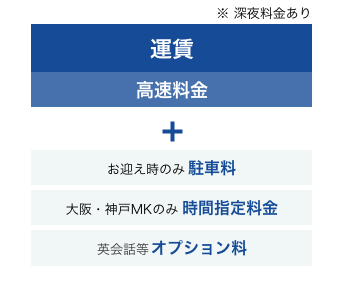
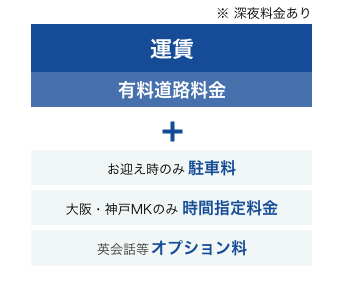
update

Changed region(s): [[0.3499, 0.2847, 0.6706, 0.3701]]

diff --git a/index.html b/index.html
@@ -84,22 +84,109 @@
           <span class="text-primary en">Information</span>
           <span>空港定額タクシーのご紹介</span>
         </h2>
-        <div class="information-slide">
-          <a href="./assets/images_min/slide_01.png" data-lightbox="info-slide">
-            <img class="img-fluid" src="./assets/images_min/slide_01.png" alt="空港定額タクシーのご紹介1">
-          </a>
-          <a href="./assets/images_min/slide_02.png" data-lightbox="info-slide">
-            <img class="img-fluid" src="./assets/images_min/slide_02.png" alt="空港定額タクシーのご紹介2">
-          </a>
-          <a href="./assets/images_min/slide_03.png" data-lightbox="info-slide">
-            <img class="img-fluid" src="./assets/images_min/slide_03.png" alt="空港定額タクシーのご紹介3">
-          </a>
-          <a href="./assets/images_min/slide_04.png" data-lightbox="info-slide">
-            <img class="img-fluid" src="./assets/images_min/slide_04.png" alt="空港定額タクシーのご紹介4">
-          </a>
-          <a href="./assets/images_min/slide_05.png" data-lightbox="info-slide">
-            <img class="img-fluid" src="./assets/images_min/slide_05.png" alt="空港定額タクシーのご紹介5">
-          </a>
+      </div>
+      <div class="bg-light py-4">
+        <div class="container">
+          <div class="information-slide">
+            <a href="./assets/images_min/slide_01.png" data-lightbox="info-slide">
+              <img class="img-fluid" src="./assets/images_min/slide_01.png" alt="空港定額タクシーのご紹介1">
+            </a>
+            <a href="./assets/images_min/slide_02.png" data-lightbox="info-slide">
+              <img class="img-fluid" src="./assets/images_min/slide_02.png" alt="空港定額タクシーのご紹介2">
+            </a>
+            <a href="./assets/images_min/slide_03.png" data-lightbox="info-slide">
+              <img class="img-fluid" src="./assets/images_min/slide_03.png" alt="空港定額タクシーのご紹介3">
+            </a>
+            <a href="./assets/images_min/slide_04.png" data-lightbox="info-slide">
+              <img class="img-fluid" src="./assets/images_min/slide_04.png" alt="空港定額タクシーのご紹介4">
+            </a>
+            <a href="./assets/images_min/slide_05.png" data-lightbox="info-slide">
+              <img class="img-fluid" src="./assets/images_min/slide_05.png" alt="空港定額タクシーのご紹介5">
+            </a>
+          </div>
+        </div>
+      </div>
+    </section>
+    <section id="about" class="sec">
+      <div class="container">
+        <h2 class="ttl2">
+          <span class="text-primary en">About</span>
+          <span>ご予約について</span>
+        </h2>
+        <div class="d-flex about-menu">
+          <a class="bg-primary text-white text-center" href="#">ご予約手順</a>
+          <a class="bg-dark text-white text-center" href="#">料金について</a>
+          <a class="bg-dark text-white text-center" href="#">車両について</a>
+          <a class="bg-dark text-white text-center" href="#">荷物について</a>
+          <a class="bg-dark text-white text-center" href="#">キャンセルについて</a>
+          <a class="bg-dark text-white text-center" href="#">注意事項</a>
+        </div>
+        <div id="flow" class="about-inner bg-light">
+          <div class="ttl border-bottom">
+            <h3 class="ttl3 m-0">
+              <span>ご予約手順</span>
+            </h3>
+          </div>
+          <div class="content">
+            <div class="row flow-list">
+              <div class="col-md">
+                <div class="card border-0">
+                  <div class="card-body">
+                    <h4 class="card-title text-primary">1.ご利用日、ご送迎地入力</h4>
+                    <p class="card-text">ご利用日とご送迎地を地図等を活用しながら入力してください。</p>
+                  </div>
+                </div>
+              </div>
+              <div class="col-md">
+                <div class="card border-0">
+                  <div class="card-body">
+                    <h4 class="card-title text-primary">2.車両選択、人数荷物</h4>
+                    <p class="card-text">ご利用人数とスーツケースの荷物に応じた車両をご選択ください。</p>
+                  </div>
+                </div>
+              </div>
+              <div class="col-md">
+                <div class="card border-0">
+                  <div class="card-body">
+                    <h4 class="card-title text-primary">3.お客様情報の入力</h4>
+                    <p class="card-text">ご利用される方のご利用情報をお願いします。</p>
+                  </div>
+                </div>
+              </div>
+              <div class="col-md">
+                <div class="card border-0">
+                  <div class="card-body">
+                    <h4 class="card-title text-primary">4.ご予約確認</h4>
+                    <p class="card-text">初めてご利用される方は、メールの確認があり、ご利用頂いているお客様は、直接ご予約の確認ができます。</p>
+                  </div>
+                </div>
+              </div>
+            </div>
+          </div>
+        </div>
+        <div id="price" class="about-inner bg-light">
+          <div class="ttl border-bottom">
+            <h3 class="ttl3 m-0">
+              <span>ご利用料金について</span>
+            </h3>
+          </div>
+          <div class="content">
+            <div class="prices d-flex justify-content-between align-items-start">
+              <div class="img">
+                <img class="img-fluid" src="./assets/images_min/price_img.png" alt="ご利用料金について">
+              </div>
+              <div class="txt">
+                <p>各主要空港 ⇔ ご自宅・ホテル・駅・旅先などご指定場所まで、お得な定額運賃で直行します!!</p>
+                <p class="mb-0 small">※「送迎先1ヵ所⇔空港」の直行便となります。立ち寄りがある場合は定額適用外となります。
+                  <br>※ 高速道路などの有料道路通行料がかかります。
+                  <br>※ スタンダード、ビジネスなど車種毎に運賃が変わります。
+                  <br>※ 空港お迎えご利用時は駐車代がかかります。
+                  <br>※ 深夜早朝時間帯(22:00~翌5:00)は割増運賃(2割増)となります。
+                  <br>※ 大阪MK・神戸MKは、時間指定予約料金として500円がかかります。
+                  <br>※名古屋MKは、時間指定予約料金として200円がかかります。</p>
+              </div>
+            </div>
+          </div>
         </div>
       </div>
     </section>

diff --git a/assets/js/bundle.js b/assets/js/bundle.js
@@ -94,7 +94,7 @@
 /***/ (function(module, __webpack_exports__, __webpack_require__) {
 
 "use strict";
-eval("__webpack_require__.r(__webpack_exports__);\n/* WEBPACK VAR INJECTION */(function($) {/* harmony import */ var _sass_app_scss__WEBPACK_IMPORTED_MODULE_0__ = __webpack_require__(/*! ../sass/app.scss */ \"./assets/sass/app.scss\");\n/* harmony import */ var _sass_app_scss__WEBPACK_IMPORTED_MODULE_0___default = /*#__PURE__*/__webpack_require__.n(_sass_app_scss__WEBPACK_IMPORTED_MODULE_0__);\n/* harmony import */ var bootstrap__WEBPACK_IMPORTED_MODULE_1__ = __webpack_require__(/*! bootstrap */ \"./node_modules/bootstrap/dist/js/bootstrap.js\");\n/* harmony import */ var bootstrap__WEBPACK_IMPORTED_MODULE_1___default = /*#__PURE__*/__webpack_require__.n(bootstrap__WEBPACK_IMPORTED_MODULE_1__);\n/* harmony import */ var slick_carousel__WEBPACK_IMPORTED_MODULE_2__ = __webpack_require__(/*! slick-carousel */ \"./node_modules/slick-carousel/slick/slick.js\");\n/* harmony import */ var slick_carousel__WEBPACK_IMPORTED_MODULE_2___default = /*#__PURE__*/__webpack_require__.n(slick_carousel__WEBPACK_IMPORTED_MODULE_2__);\n/* harmony import */ var lightbox2__WEBPACK_IMPORTED_MODULE_3__ = __webpack_require__(/*! lightbox2 */ \"./node_modules/lightbox2/dist/js/lightbox.js\");\n/* harmony import */ var lightbox2__WEBPACK_IMPORTED_MODULE_3___default = /*#__PURE__*/__webpack_require__.n(lightbox2__WEBPACK_IMPORTED_MODULE_3__);\n// sass\n // js\n\n\n\n\n$(function ($) {\n  $('.information-slide').slick({\n    dots: true,\n    infinite: true,\n    slidesToShow: 3,\n    slidesToScroll: 1,\n    centerMode: true,\n    centerPadding: '40px'\n  });\n});\n/* WEBPACK VAR INJECTION */}.call(this, __webpack_require__(/*! jquery */ \"./node_modules/jquery/dist/jquery.js\")))\n\n//# sourceURL=webpack:///./assets/js/index.js?");
+eval("__webpack_require__.r(__webpack_exports__);\n/* WEBPACK VAR INJECTION */(function($) {/* harmony import */ var _sass_app_scss__WEBPACK_IMPORTED_MODULE_0__ = __webpack_require__(/*! ../sass/app.scss */ \"./assets/sass/app.scss\");\n/* harmony import */ var _sass_app_scss__WEBPACK_IMPORTED_MODULE_0___default = /*#__PURE__*/__webpack_require__.n(_sass_app_scss__WEBPACK_IMPORTED_MODULE_0__);\n/* harmony import */ var bootstrap__WEBPACK_IMPORTED_MODULE_1__ = __webpack_require__(/*! bootstrap */ \"./node_modules/bootstrap/dist/js/bootstrap.js\");\n/* harmony import */ var bootstrap__WEBPACK_IMPORTED_MODULE_1___default = /*#__PURE__*/__webpack_require__.n(bootstrap__WEBPACK_IMPORTED_MODULE_1__);\n/* harmony import */ var slick_carousel__WEBPACK_IMPORTED_MODULE_2__ = __webpack_require__(/*! slick-carousel */ \"./node_modules/slick-carousel/slick/slick.js\");\n/* harmony import */ var slick_carousel__WEBPACK_IMPORTED_MODULE_2___default = /*#__PURE__*/__webpack_require__.n(slick_carousel__WEBPACK_IMPORTED_MODULE_2__);\n/* harmony import */ var lightbox2__WEBPACK_IMPORTED_MODULE_3__ = __webpack_require__(/*! lightbox2 */ \"./node_modules/lightbox2/dist/js/lightbox.js\");\n/* harmony import */ var lightbox2__WEBPACK_IMPORTED_MODULE_3___default = /*#__PURE__*/__webpack_require__.n(lightbox2__WEBPACK_IMPORTED_MODULE_3__);\n// sass\n // js\n\n\n\n\n$(function ($) {\n  $('.information-slide').slick({\n    dots: true,\n    infinite: true,\n    slidesToShow: 3,\n    slidesToScroll: 1,\n    prevArrow: '<span class=\"prev-arrow\"></span>',\n    nextArrow: '<span class=\"next-arrow\"></span>'\n  });\n});\n/* WEBPACK VAR INJECTION */}.call(this, __webpack_require__(/*! jquery */ \"./node_modules/jquery/dist/jquery.js\")))\n\n//# sourceURL=webpack:///./assets/js/index.js?");
 
 /***/ }),
 

diff --git a/assets/css/style.css b/assets/css/style.css
@@ -7364,6 +7364,22 @@ body {
   .ttl2 span:not(.en) {
     font-size: 0.875rem; }
 
+.ttl3 {
+  position: relative;
+  font-size: 1rem;
+  font-weight: bold; }
+  .ttl3 span {
+    display: inline-block;
+    vertical-align: middle; }
+  .ttl3::before {
+    content: "";
+    display: inline-block;
+    vertical-align: middle;
+    margin-right: 1rem;
+    border-top: 1rem solid transparent;
+    border-bottom: 1rem solid transparent;
+    border-left: 1rem solid #154B97; }
+
 .header {
   position: relative;
   padding: 1rem 0 1.25rem 0; }
@@ -7433,17 +7449,81 @@ body {
         width: 60%;
         padding-top: 1rem; }
 
-.slick-dots {
-  position: relative;
-  bottom: auto; }
-  .slick-dots li button::before {
-    color: #154B97; }
-  .slick-dots li.slick-active button::before {
-    content: "■";
-    color: #154B97;
-    line-height: 1.8; }
+.slick-dots li button::before {
+  color: #154B97; }
 
-.information-slide .slick-slide {
-  box-sizing: border-box;
+.slick-dots li.slick-active button::before {
+  content: "■";
+  color: #154B97;
+  line-height: 1.8; }
+
+.information-slide {
+  margin-bottom: 0 !important; }
+  .information-slide .slick-slide {
+    box-sizing: border-box;
+    padding: 0 1rem;
+    font-size: 0; }
+  .information-slide .slick-dots {
+    bottom: -4rem; }
+  .information-slide .prev-arrow::before,
+  .information-slide .next-arrow::before {
+    content: "";
+    display: block;
+    width: 1rem;
+    height: 1rem;
+    border-top: solid 2px #154B97;
+    border-right: solid 2px #154B97; }
+  .information-slide .prev-arrow {
+    z-index: 1;
+    cursor: pointer;
+    position: absolute;
+    top: 50%;
+    left: -2rem;
+    transform: rotate(-135deg) translateY(-50%);
+    margin-top: -1rem; }
+  .information-slide .next-arrow {
+    z-index: 1;
+    cursor: pointer;
+    position: absolute;
+    top: 50%;
+    right: -2rem;
+    transform: rotate(45deg) translateY(-50%);
+    margin-top: -0.5rem; }
+
+.about-menu {
+  margin-bottom: 2rem; }
+  .about-menu a {
+    display: block;
+    width: calc(100% / 6);
+    box-sizing: border-box;
+    padding: 1em;
+    border: solid 1px #fff;
+    font-size: 0.875rem;
+    line-height: 1; }
+
+.about-inner {
+  margin-bottom: 2rem; }
+  .about-inner:last-of-type {
+    margin-bottom: 0; }
+  .about-inner .content,
+  .about-inner .ttl {
+    box-sizing: border-box;
+    padding: 1rem 1.5rem; }
+
+.flow-list .card {
+  height: 100%; }
+  .flow-list .card h4 {
+    font-weight: bold;
+    font-size: 1rem;
+    margin-bottom: 1em; }
+  .flow-list .card p {
+    font-size: 0.875rem; }
+
+.prices .txt {
+  width: 60%;
   padding: 0 1rem; }
+
+.prices .img {
+  text-align: center;
+  width: 40%; }
 

diff --git a/assets/sass/components/_slide.scss b/assets/sass/components/_slide.scss
@@ -1,7 +1,4 @@
 .slick-dots {
-  position: relative;
-  bottom: auto;
-
   li {
     button {
       &::before {
@@ -22,8 +19,45 @@
 }
 
 .information-slide {
+  margin-bottom: 0 !important;
+
   .slick-slide {
     box-sizing: border-box;
     padding: 0 $font-size-base;
+    font-size: 0;
+  }
+
+  .slick-dots {
+    bottom: -$font-size-base * 4;
+  }
+
+  .prev-arrow::before,
+  .next-arrow::before {
+    content: "";
+    display: block;
+    width: $font-size-base;
+    height: $font-size-base;
+    border-top: solid 2px $primary;
+    border-right: solid 2px $primary;
+  }
+
+  .prev-arrow {
+    z-index: 1;
+    cursor: pointer;
+    position: absolute;
+    top: 50%;
+    left: -$font-size-base * 2;
+    transform: rotate(-135deg) translateY(-50%);
+    margin-top: -$font-size-base;
+  }
+
+  .next-arrow {
+    z-index: 1;
+    cursor: pointer;
+    position: absolute;
+    top: 50%;
+    right: -$font-size-base * 2;
+    transform: rotate(45deg) translateY(-50%);
+    margin-top: -$font-size-base * 0.5;
   }
 }

diff --git a/assets/sass/components/_about.scss b/assets/sass/components/_about.scss
@@ -1,0 +1,54 @@
+.about-menu {
+  margin-bottom: $font-size-base * 2;
+  a {
+    display: block;
+    width: calc(100% / 6);
+    box-sizing: border-box;
+    padding: 1em;
+    border: solid 1px $white;
+    font-size: $font-size-base * 0.875;
+    line-height: 1;
+  }
+}
+
+.about-inner {
+  margin-bottom: $font-size-base * 2;
+
+  &:last-of-type {
+    margin-bottom: 0;
+  }
+
+  .content,
+  .ttl {
+    box-sizing: border-box;
+    padding: $font-size-base $font-size-base * 1.5;
+  }
+}
+
+.flow-list {
+  .card {
+    height: 100%;
+
+    h4 {
+      font-weight: bold;
+      font-size: $font-size-base;
+      margin-bottom: 1em;
+    }
+
+    p {
+      font-size: $font-size-base * 0.875;
+    }
+  }
+}
+
+.prices {
+  .txt {
+    width: 60%;
+    padding: 0 $font-size-base;
+  }
+
+  .img {
+    text-align: center;
+    width: 40%;
+  }
+}

diff --git a/assets/sass/_commons.scss b/assets/sass/_commons.scss
@@ -21,3 +21,24 @@ body {
     font-size: $font-size-base * 0.875;
   }
 }
+
+.ttl3 {
+  position: relative;
+  font-size: $font-size-base;
+  font-weight: bold;
+
+  span {
+    display: inline-block;
+    vertical-align: middle;
+  }
+
+  &::before {
+    content: "";
+    display: inline-block;
+    vertical-align: middle;
+    margin-right: $font-size-base;
+    border-top: $font-size-base solid transparent;
+    border-bottom: $font-size-base solid transparent;
+    border-left: $font-size-base solid $primary;
+  }
+}

diff --git a/assets/js/index.js b/assets/js/index.js
@@ -12,7 +12,7 @@ $(function($) {
     infinite: true,
     slidesToShow: 3,
     slidesToScroll: 1,
-    centerMode: true,
-    centerPadding: '40px',
+    prevArrow: '<span class="prev-arrow"></span>',
+    nextArrow: '<span class="next-arrow"></span>'
   });
 });

diff --git a/assets/sass/_components.scss b/assets/sass/_components.scss
@@ -1,3 +1,4 @@
 @import "./components/header";
 @import "./components/nav";
 @import "./components/slide";
+@import "./components/about";
